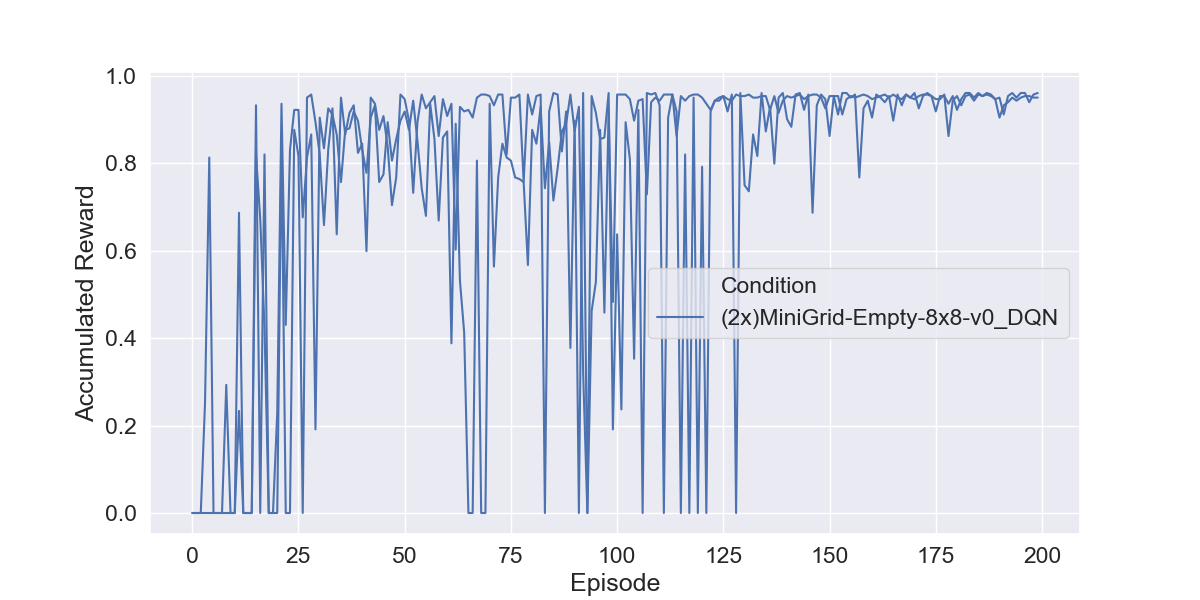
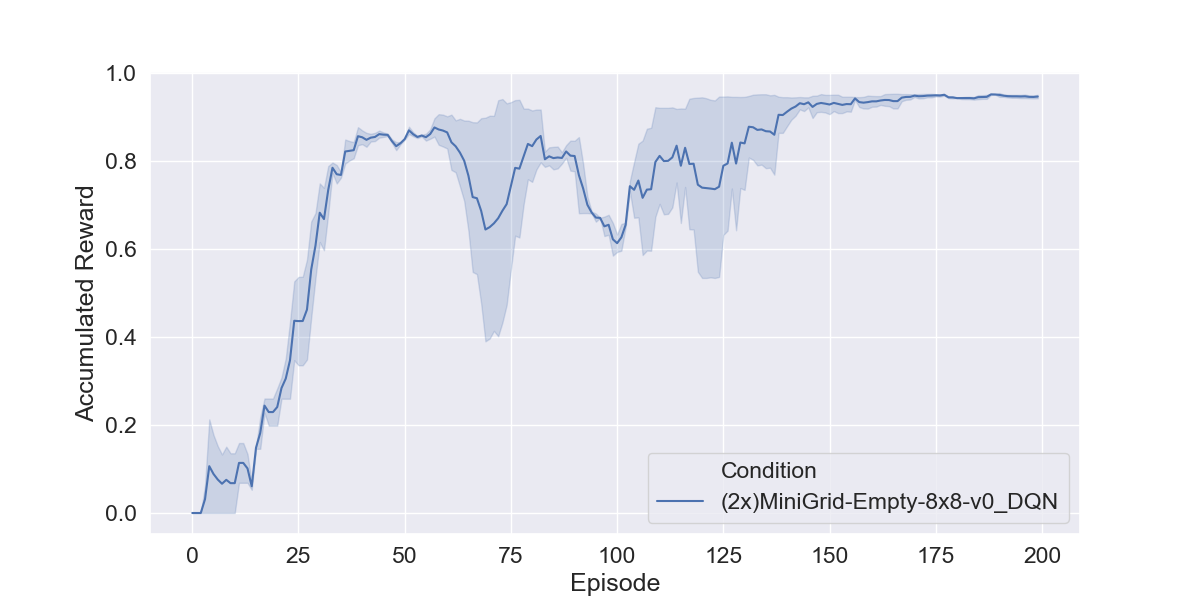
Updated training loop

diff --git a/main.py b/main.py
@@ -3,7 +3,7 @@ import matplotlib.pyplot as plt
 from gym_minigrid.wrappers import *
 from functions import main_plot, savepdf, train, defaultdict2
 
-from policies import EpsilonGreedy
+from policies import EpsilonGreedy, EpsilonUCB, EpsilonMaxVariance
 from networks import EnsambleNetwork, DeepQNetwork, BayesianDeepQNetwork
 from agents import SarsaLambdaAgent, SarsaAgent, BayesianSarsaLambdaAgent, DeepQAgent
 from wrappers import OneHotWrapper
@@ -23,20 +23,27 @@ if __name__ == "__main__":
     }
 
     policy = EpsilonGreedy(epsilon=0.1)
-    network = lambda *args, **kwargs: EnsambleNetwork([DeepQNetwork] * 2, *args, **kwargs)
-    EnsambleDeepQAgent = DeepQAgent(env, policy, network=network, **deepQAgentArgs)
-    methods.append(("EnsambleDQN", EnsambleDeepQAgent))
-
-    policy = EpsilonGreedy(epsilon=0.1)
     network = DeepQNetwork
-    deepQAgent = DeepQAgent(env, policy, network=network, **deepQAgentArgs)
-    methods.append(("DQN", EnsambleDeepQAgent))
+    DQNAgent = DeepQAgent(env, policy, network=network, **deepQAgentArgs)
+    methods.append(("DQN", DQNAgent))
+
+    policy = EpsilonUCB(epsilon=0.1, c=1)
+    network = lambda *args, **kwargs: EnsambleNetwork([DeepQNetwork] * 10, *args, **kwargs)
+    DQNAgentUCB = DeepQAgent(env, policy, network=network, **deepQAgentArgs)
+    methods.append(("DQN-UCB", DQNAgentUCB))
+
+    policy = EpsilonMaxVariance(epsilon=0.1)
+    network = lambda *args, **kwargs: EnsambleNetwork([DeepQNetwork] * 10, *args, **kwargs)
+    DQNAgentMV = DeepQAgent(env, policy, network=network, **deepQAgentArgs)
+    methods.append(("DQN-MV", DQNAgentMV))
 
     experiments = []
     for k, (name, agent) in enumerate(methods):
         expn = f"experiments/{envn}_{name}"
-        train(env, agent, expn, num_episodes=200)
+        for i in range(10):
+            train(env, agent, expn, num_episodes=200)
         experiments.append(expn)
-    main_plot(experiments, units="Unit", estimator=None, smoothing_window=None)
+
+    main_plot(experiments,  smoothing_window=10)
     savepdf("./cliff_sarsa_lambda")
     plt.show()

diff --git a/agents/BayesianSarsaLambdaAgent.py b/agents/BayesianSarsaLambdaAgent.py
@@ -14,13 +14,10 @@ class BayesianSarsaLambdaAgent(Agent):
     def pi(self, s):
       image = s["image"]
       X = torch.tensor(image.flatten()).view((1, -1))
-      #print(X)
 
       return 0
 
     def train(self, s, a, r, sp, done=False):
-      # Test
-      #print("train", s, a, r, sp)
       pass
       
     def __str__(self):

diff --git a/networks/EnsambleNetwork.py b/networks/EnsambleNetwork.py
@@ -4,7 +4,6 @@ from networks import Network
 class EnsambleNetwork(Network):
     def __init__(self, networks, *args, **kwargs):
         Network.__init__(self)
-        print(args, kwargs)
         self.networks = [
           Network(*args, **kwargs)
           for Network in networks

diff --git a/policies/__init__.py b/policies/__init__.py
@@ -1,3 +1,4 @@
 from policies.Policy import Policy
 from policies.EpsilonGreedy import EpsilonGreedy
-from policies.EpsilonExpectedImprovement import EpsilonExpectedImprovement
+from policies.EpsilonMaxVariance import EpsilonMaxVariance
+from policies.EpsilonUCB import EpsilonUCB

diff --git a/policies/EpsilonUCB.py b/policies/EpsilonUCB.py
@@ -5,7 +5,7 @@ class EpsilonUCB(Policy):
   def __init__(self, epsilon, c):
     super().__init__()
     self.epsilon = epsilon
-    self.c
+    self.c = c
 
   def pi(self, Q, s):
     actions = Q(s)
